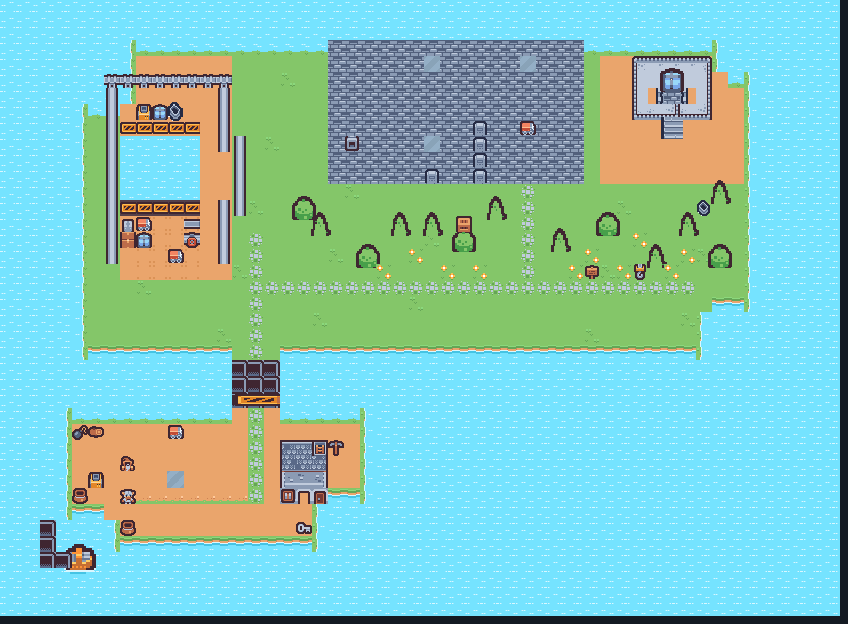
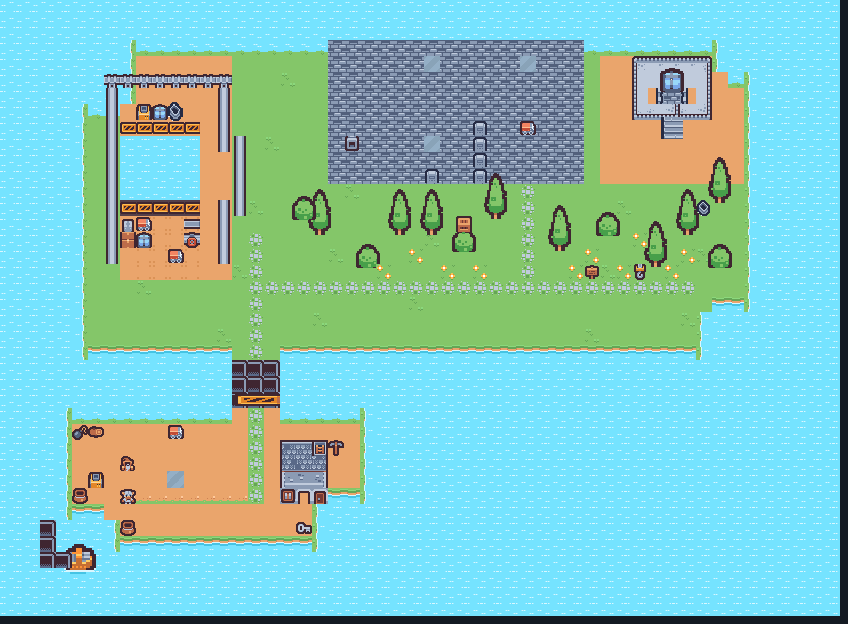
Polish multi-tile tree silhouettes through native sprite authoring

diff --git a/examples/LastLightkeeper/Authoring/compose.py b/examples/LastLightkeeper/Authoring/compose.py
@@ -128,7 +128,7 @@ def island():
     grove=s.entity('SALT GROVE / Trees and wildflowers')['Entity']
     clusters=[(-3,3),(-1,5),(1,5),(3,4),(5,6),(9,4),(12,5),(15,3),(17,5),(19,3),(19,7),(-6,5),(-7,6)]
     for i,(x,y) in enumerate(clusters):
-        e=s.sprite('Grove pine '+str(i),'tiny-town',4 if i%3 else 5,x,y,.7,1.5,1.5,GRASS,parent=grove)
+        e=s.sprite('Grove pine '+str(i),'tiny-town',4 if i%3 else 5,x,y+(.65 if i%3 else 0),.7,1.5,3 if i%3 else 1.5,GRASS,parent=grove)
         # Separate root colliders: visual hierarchy never parents physics owners.
         col=s.entity('Tree trunk '+str(i),x,y-.35,sx=.75,sy=.9);s.solid(col,(.25,.35))
     for x,y in [(-2,2),(0,3),(2,2),(4,2),(10,2),(11,3),(13,2),(14,4),(16,2),(17,3)]:s.sprite('Salt flowers %d,%d'%(x,y),'tiny-town',2,x,y,-.4,color=GRASS,parent=grove)
@@ -205,7 +205,7 @@ def menu(name='MainMenu',ending=False):
             s.sprite('Headland %d,%d'%(x,y),'tiny-town',0 if y<2 else 126,x,y,-1.5,color=[.25,.34,.38,1])
     for iy,row in enumerate([[96,97,97,98],[108,125,109,110],[108,126,124,110],[120,121,121,122]]):
         for ix,t in enumerate(row):s.sprite('Tower vignette %d,%d'%(ix,iy),'tiny-town',t,9+ix*1.3,4-iy*1.3,-.4,1.3,1.3,STORM)
-    for x,y in [(8,-2),(14,-1),(15,-3),(8,-4),(12,-5)]:s.sprite('Pine vignette %d,%d'%(x,y),'tiny-town',4,x,y,-.3,1.5,1.5,[.35,.48,.43,1])
+    for x,y in [(8,-2),(14,-1),(15,-3),(8,-4),(12,-5)]:s.sprite('Pine vignette %d,%d'%(x,y),'tiny-town',4,x,y+.65,-.3,1.5,3,[.35,.48,.43,1])
     s.sprite('Keeper vignette','tiny-dungeon',87,10,-2,-.1,1.2,1.2)
     halo=s.image('Lantern halo','ui_0046.png',10.5,2.6,.2,1.7,1.7,[1,.75,.4,.9])
     halo['SpriteAnimationComponent']={'DefaultClip':{'Sheet':'Art/lantern-pulse.hsprites','ClipID':CLIPS['lantern-pulse']},'Autoplay':True,'Speed':1}
@@ -237,6 +237,7 @@ def reference(scene):
     # Actual imported pixels arranged exactly like the authored island, no invented sprites.
     out=Image.new('RGBA',(53*16,39*16),(20,26,35,255))
     sheets={pack:Image.open(ASSETS/'Art'/(pack+'.png')).convert('RGBA') for pack in TABLE if pack!='panel'}
+    regions_by_pack={pack:yaml.safe_load((ASSETS/'Art'/(pack+'.hsprites')).read_text())['SpriteSheet']['Regions'] for pack in sheets}
     for e in scene.entities:
         src=e.get('SpriteRendererComponent',{}).get('Source',{})
         if not src:continue
@@ -250,8 +251,9 @@ def reference(scene):
         if src['Type']=='Region':
             pack=Path(src['Sheet']).stem
             if pack=='panel':continue
-            i=list(TABLE[pack].values()).index(src['RegionID']);cols=sheets[pack].width//16
-            im=sheets[pack].crop((i%cols*16,i//cols*16,i%cols*16+16,i//cols*16+16))
+            regions=regions_by_pack[pack]
+            rect=next(r['Rect'] for r in regions if r['ID']==src['RegionID']);rx,ry,rw,rh=rect
+            im=sheets[pack].crop((rx,ry,rx+rw,ry+rh))
         else:im=Image.open(ASSETS/src['Texture']).convert('RGBA')
         if w>8 or h>8:continue
         im=im.resize((max(1,int(w*16)),max(1,int(h*16))),Image.Resampling.NEAREST)

diff --git a/tools/HazelProject/main.cpp b/tools/HazelProject/main.cpp
@@ -25,6 +25,17 @@ int main(int argc, char **argv) {
         }
         // Same grid/validation/persistence services as Hazelnut's Sprite Sheet panel.
         // Creates a new sheet only; established region identities are never regenerated.
+        if(args.size()==10 && args[1]=="set-region") {
+            Hazel::Log::Init();
+            const auto root=std::filesystem::u8path(args[2]),reference=std::filesystem::u8path(args[3]);
+            auto sheet=Hazel::ReadSpriteSheet(Hazel::Project::ResolveOwnedAsset(root,reference));
+            Hazel::SpriteRegion* region=nullptr;const auto id=Hazel::ParseSpriteID(args[4]);
+            for(auto& candidate:sheet.Regions)if(candidate.ID==id)region=&candidate;
+            if(!region)throw std::runtime_error("Unknown region identity");
+            region->Rect={static_cast<uint32_t>(std::stoul(args[5])),static_cast<uint32_t>(std::stoul(args[6])),static_cast<uint32_t>(std::stoul(args[7])),static_cast<uint32_t>(std::stoul(args[8]))};
+            region->Name=args[9];Hazel::SaveSpriteSheet(root,reference,sheet);
+            std::cout<<"Updated native editable region: "<<region->Name<<"\n";return 0;
+        }
         if(args.size()==7 && args[1]=="add-clip") {
             Hazel::Log::Init();
             const auto root=std::filesystem::u8path(args[2]),reference=std::filesystem::u8path(args[3]);

diff --git a/examples/LastLightkeeper/README.md b/examples/LastLightkeeper/README.md
@@ -99,7 +99,7 @@ Assets/Licenses/PROVENANCE.json. No logo is used and no endorsement is implied.
 - [Interface Sounds 1.0](https://kenney.nl/assets/interface-sounds): selected cues, originals preserved plus PCM WAV conversions.
 
 The Tiny family uses matching 16×16 sprites and palette. Sheets use nearest
-minification/magnification, clamp and no mipmaps. One tile is one world unit.
+minification/magnification, clamp and no mipmaps. One tile is one world unit. Tall pines use a native 16×32 region and matching scene aspect ratio.
 Storm colors are renderer tints; warm restoration light remains readable against
 blue-gray stone and sea. Kenney character poses are static, with game movement
 bob; no directional walk animation is claimed. The lantern pulse is a real

diff --git a/docs/runtime-storage-audio.md b/docs/runtime-storage-audio.md
@@ -96,3 +96,7 @@ commands perform native ownership/image/schema validation without a graphics
 context. They are authoring aids; packaged games do not execute them.
 
 Physics synchronization validates full hierarchy only after scene/component/topology mutation; live bodies retain per-step numeric/material validation. Primary camera inverse is checked when its world transform is read. This keeps dense authored terrain from multiplying graph work per frame without bypassing ownership or graph contracts.
+
+`HazelProject set-region ROOT SHEET REGION_ID X Y WIDTH HEIGHT NAME` updates an
+existing region through native sheet validation/persistence, preserving its ID.
+For multi-tile sprites, match the authored entity aspect ratio to the region.

diff --git a/docs/design/last-lightkeeper.md b/docs/design/last-lightkeeper.md
@@ -43,7 +43,7 @@ same pixel scale. OpenSans is Hazel's existing licensed font for readable prose.
 
 | Imported pack | Coverage / size |
 | --- | --- |
-| Tiny Town 1.1 | 16×16 grass, sand paths, trees, cottage, tower stone, tools; packed 192×176. |
+| Tiny Town 1.1 | 16×16 grass, sand paths; 16×32 tall pines; cottage, tower stone, tools; packed 192×176. |
 | Tiny Dungeon 1.0 | 16×16 player/NPC poses, stone, lens, torch, small enemy/effects; packed 192×176. |
 | Tiny Factory 1.0 | 16×16 pumps, pipes, switches, gears, warning markings; packed 192×176. |
 | Tiny Battle 1.0 | 16×16 rounded shoreline and water; packed 304×176. |
